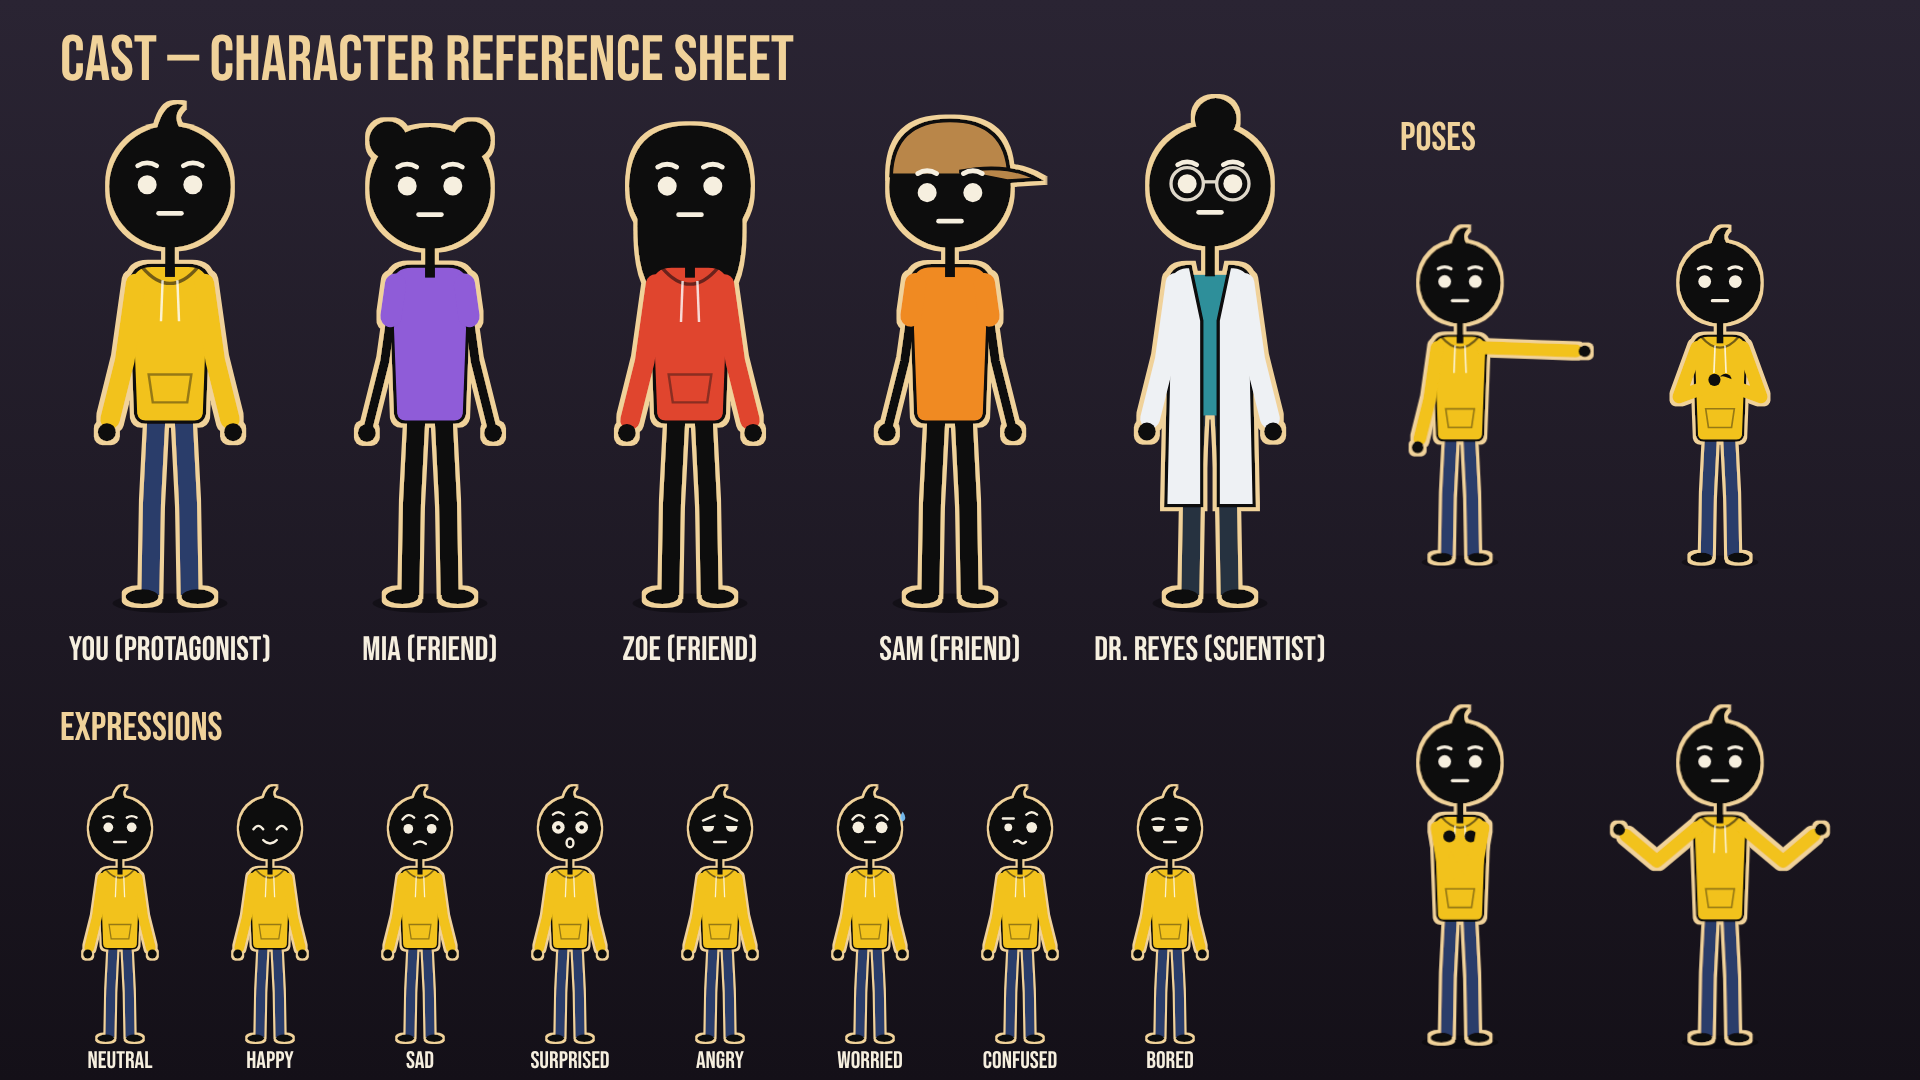
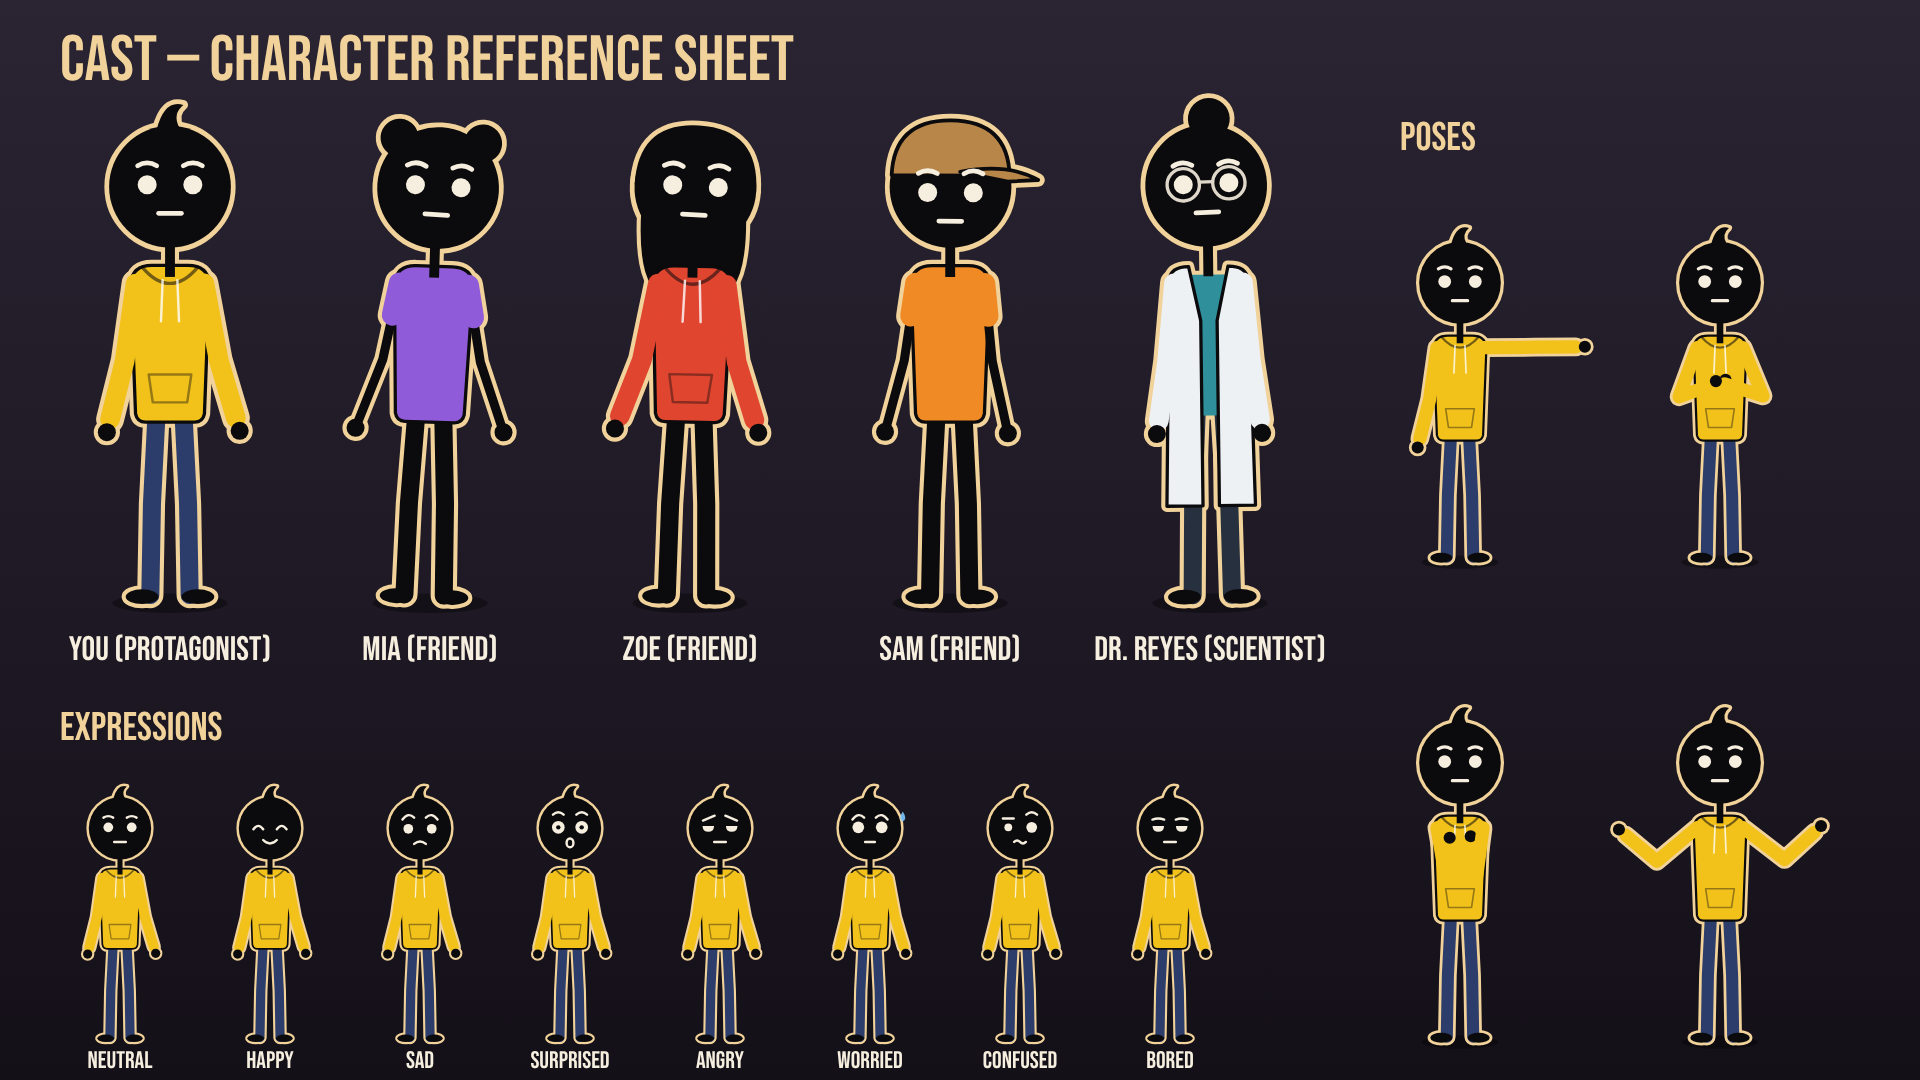
Replace SVG-filter character outline with drawn outline pass (fixes dropped frames)
Claude-Session: https://claude.ai/code/session_01XX8TN6DtUHRC8gYsVLUuvR

diff --git a/what-if-aging/src/stick/Stick.tsx b/what-if-aging/src/stick/Stick.tsx
@@ -299,93 +299,88 @@ export const Stick: React.FC<StickProps> = ({
   const sleeveLen = o.kind === "tee" ? 0.42 : 1;
   const torsoBottom = o.kind === "coat" ? hipY + 120 : hipY + 18;
 
-  return (
-    <g transform={`translate(${x + tr} ${y}) scale(${s * (1 - sq * 0.6)} ${s * (1 + sq)})`}>
-      {shadow && <ellipse cx={0} cy={4} rx={70} ry={12} fill="#000" opacity={0.35} />}
-      <g filter={`url(#${rim})`} transform={`rotate(${lean + hunch * 0.6 + sway} 0 ${hipY})`}>
-        {/* legs */}
-        {legs.map((l) => (
-          <g key={l.side}>
-            <path d={`M ${l.side * 16} ${hipY} L ${l.kx} ${l.ky} L ${l.fx} ${l.fy - 6}`} stroke={o.pants} strokeWidth={22} fill="none" strokeLinejoin="round" />
-            <path d={`M ${l.kx} ${l.ky} L ${l.fx} ${l.fy - 6}`} stroke={INK} strokeWidth={11} strokeLinecap="round" fill="none" opacity={o.pants === INK ? 1 : 0} />
-            <ellipse cx={l.fx + l.side * 10} cy={l.fy - 4} rx={20} ry={9} fill={INK} />
-          </g>
-        ))}
-        {/* long hair behind head */}
-        {c.hair === "long" && (
-          <path d={`M ${-62} ${headY} Q ${-70} ${headY + 90} ${-50} ${headY + 120} L 50 ${headY + 120} Q 70 ${headY + 90} 62 ${headY} Z`} fill={hairCol} />
-        )}
-        {/* torso clothing */}
-        <g>
-          {o.kind === "coat" && <path d={`M -40 ${shY + 4} L 40 ${shY + 4} L 34 ${hipY + 10} L -34 ${hipY + 10} Z`} fill={o.inner ?? "#2f8f9a"} />}
-          <path
-            d={
-              o.kind === "coat"
-                ? `M -48 ${shY + 10} Q -46 ${shY - 6} -24 ${shY - 6} L -10 ${shY + 60} L -10 ${torsoBottom} L -54 ${torsoBottom} Z M 48 ${shY + 10} Q 46 ${shY - 6} 24 ${shY - 6} L 10 ${shY + 60} L 10 ${torsoBottom} L 54 ${torsoBottom} Z`
-                : `M -48 ${shY + 14} Q -46 ${shY - 8} -22 ${shY - 8} L 22 ${shY - 8} Q 46 ${shY - 8} 48 ${shY + 14} L 42 ${torsoBottom - 10} Q 40 ${torsoBottom} 30 ${torsoBottom} L -30 ${torsoBottom} Q -40 ${torsoBottom} -42 ${torsoBottom - 10} Z`
-            }
-            fill={o.color}
-            stroke={INK}
-            strokeWidth={4}
-          />
-          {o.kind === "hoodie" && (
-            <g>
-              <path d={`M -34 ${shY - 6} Q 0 ${shY + 34} 34 ${shY - 6}`} stroke={INK} strokeWidth={4} fill="none" opacity={0.55} />
-              <line x1={-9} y1={shY + 10} x2={-11} y2={shY + 60} stroke="#fff" strokeWidth={3} opacity={0.8} />
-              <line x1={9} y1={shY + 10} x2={11} y2={shY + 60} stroke="#fff" strokeWidth={3} opacity={0.8} />
-              <path d={`M -26 ${hipY - 40} L 26 ${hipY - 40} L 21 ${hipY - 6} L -21 ${hipY - 6} Z`} fill="none" stroke={INK} strokeWidth={3} opacity={0.4} />
-            </g>
-          )}
+  // Outline is drawn as an enlarged cream copy of the silhouette underneath (deterministic, no SVG filter).
+  const RC = rim === "rimIce" ? "#7fe6ff" : RIM;
+  const P = (ol: boolean, fill?: string, stroke?: string, sw = 0) =>
+    ol ? { fill: fill && fill !== "none" ? RC : "none", stroke: RC, strokeWidth: sw + 10 } : { fill: fill ?? "none", stroke, strokeWidth: sw };
+  const headT = `rotate(${tilt + nod} 0 ${headY + 40}) translate(${hunch * 2.2} 0) translate(0 ${headY}) scale(1.16) translate(0 ${-headY})`;
+  const geo = (ol: boolean) => (
+    <g strokeLinecap="round" strokeLinejoin="round">
+      {legs.map((l) => (
+        <g key={l.side}>
+          <path d={`M ${l.side * 16} ${hipY} L ${l.kx} ${l.ky} L ${l.fx} ${l.fy - 6}`} {...P(ol, "none", o.pants, 22)} />
+          {!ol && o.pants === INK && <path d={`M ${l.kx} ${l.ky} L ${l.fx} ${l.fy - 6}`} stroke={INK} strokeWidth={11} fill="none" />}
+          <ellipse cx={l.fx + l.side * 10} cy={l.fy - 4} rx={20} ry={9} {...P(ol, INK)} />
         </g>
-        {/* neck */}
-        <rect x={-6} y={headY + 40} width={12} height={shY - headY - 34} fill={INK} />
-        {/* arms */}
-        {arms.map((a) => {
-          const sx = a.side * 42;
-          const sy = shY + 14;
-          const midx = sx + (a.ex - sx) * sleeveLen;
-          const midy = sy + (a.ey - sy) * sleeveLen;
-          return (
-            <g key={a.side}>
-              <path d={`M ${sx} ${sy} L ${a.ex} ${a.ey} L ${a.hx} ${a.hy}`} stroke={INK} strokeWidth={11} strokeLinecap="round" strokeLinejoin="round" fill="none" />
-              {o.kind === "tee" ? (
-                <path d={`M ${sx} ${sy} L ${midx} ${midy}`} stroke={o.color} strokeWidth={26} strokeLinecap="round" fill="none" />
-              ) : (
-                <path
-                  d={`M ${sx} ${sy} L ${a.ex} ${a.ey} L ${sx + (a.hx - sx) * 1 - (a.hx - a.ex) * 0.18} ${a.hy - (a.hy - a.ey) * 0.18}`}
-                  stroke={o.color}
-                  strokeWidth={24}
-                  strokeLinecap="round"
-                  strokeLinejoin="round"
-                  fill="none"
-                />
-              )}
-              <circle cx={a.hx} cy={a.hy} r={11} fill={INK} />
-            </g>
-          );
-        })}
-        {/* head */}
-        <g transform={`rotate(${tilt + nod} 0 ${headY + 40}) translate(${hunch * 2.2} 0) translate(0 ${headY}) scale(1.16) translate(0 ${-headY})`}>
-          <circle cx={0} cy={headY} r={64} fill={INK} />
-          {c.hair === "tuft" && <path d={`M -14 ${headY - 60} Q -6 ${headY - 92} 14 ${headY - 86} Q 2 ${headY - 76} 10 ${headY - 62} Z`} fill={hairCol} />}
-          {c.hair === "buns" && (
-            <g fill={hairCol}>
-              <circle cx={-44} cy={headY - 50} r={20} />
-              <circle cx={44} cy={headY - 50} r={20} />
-            </g>
-          )}
-          {c.hair === "bun" && <circle cx={6} cy={headY - 70} r={22} fill={hairCol} />}
-          {c.hair === "long" && <path d={`M -64 ${headY} Q -64 ${headY - 66} 0 ${headY - 66} Q 64 ${headY - 66} 64 ${headY} Q 40 ${headY - 40} 0 ${headY - 44} Q -40 ${headY - 40} -64 ${headY} Z`} fill={hairCol} />}
-          {c.hair === "cap" && (
-            <g>
-              <path d={`M -62 ${headY - 12} Q -60 ${headY - 70} 0 ${headY - 70} Q 60 ${headY - 70} 62 ${headY - 12} Z`} fill={c.capColor ?? "#c98a3a"} stroke={INK} strokeWidth={4} />
-              <path d={`M 10 ${headY - 16} Q 60 ${headY - 26} 92 ${headY - 8} L 60 ${headY - 6} Z`} fill={c.capColor ?? "#c98a3a"} stroke={INK} strokeWidth={4} />
-            </g>
-          )}
+      ))}
+      {c.hair === "long" && <path d={`M ${-62} ${headY} Q ${-70} ${headY + 90} ${-50} ${headY + 120} L 50 ${headY + 120} Q 70 ${headY + 90} 62 ${headY} Z`} {...P(ol, hairCol)} />}
+      {o.kind === "coat" && <path d={`M -40 ${shY + 4} L 40 ${shY + 4} L 34 ${hipY + 10} L -34 ${hipY + 10} Z`} {...P(ol, o.inner ?? "#2f8f9a")} />}
+      <path
+        d={
+          o.kind === "coat"
+            ? `M -48 ${shY + 10} Q -46 ${shY - 6} -24 ${shY - 6} L -10 ${shY + 60} L -10 ${torsoBottom} L -54 ${torsoBottom} Z M 48 ${shY + 10} Q 46 ${shY - 6} 24 ${shY - 6} L 10 ${shY + 60} L 10 ${torsoBottom} L 54 ${torsoBottom} Z`
+            : `M -48 ${shY + 14} Q -46 ${shY - 8} -22 ${shY - 8} L 22 ${shY - 8} Q 46 ${shY - 8} 48 ${shY + 14} L 42 ${torsoBottom - 10} Q 40 ${torsoBottom} 30 ${torsoBottom} L -30 ${torsoBottom} Q -40 ${torsoBottom} -42 ${torsoBottom - 10} Z`
+        }
+        {...P(ol, o.color, INK, 4)}
+      />
+      {!ol && o.kind === "hoodie" && (
+        <g>
+          <path d={`M -34 ${shY - 6} Q 0 ${shY + 34} 34 ${shY - 6}`} stroke={INK} strokeWidth={4} fill="none" opacity={0.55} />
+          <line x1={-9} y1={shY + 10} x2={-11} y2={shY + 60} stroke="#fff" strokeWidth={3} opacity={0.8} />
+          <line x1={9} y1={shY + 10} x2={11} y2={shY + 60} stroke="#fff" strokeWidth={3} opacity={0.8} />
+          <path d={`M -26 ${hipY - 40} L 26 ${hipY - 40} L 21 ${hipY - 6} L -21 ${hipY - 6} Z`} fill="none" stroke={INK} strokeWidth={3} opacity={0.4} />
+        </g>
+      )}
+      <rect x={-6} y={headY + 40} width={12} height={shY - headY - 34} {...P(ol, INK)} />
+      {arms.map((a) => {
+        const sx = a.side * 42;
+        const sy = shY + 14;
+        const midx = sx + (a.ex - sx) * sleeveLen;
+        const midy = sy + (a.ey - sy) * sleeveLen;
+        return (
+          <g key={a.side}>
+            <path d={`M ${sx} ${sy} L ${a.ex} ${a.ey} L ${a.hx} ${a.hy}`} {...P(ol, "none", INK, 11)} />
+            {o.kind === "tee" ? (
+              <path d={`M ${sx} ${sy} L ${midx} ${midy}`} {...P(ol, "none", o.color, 26)} />
+            ) : (
+              <path d={`M ${sx} ${sy} L ${a.ex} ${a.ey} L ${a.hx - (a.hx - a.ex) * 0.18} ${a.hy - (a.hy - a.ey) * 0.18}`} {...P(ol, "none", o.color, 24)} />
+            )}
+            <circle cx={a.hx} cy={a.hy} r={11} {...P(ol, INK)} />
+          </g>
+        );
+      })}
+      <g transform={headT}>
+        <circle cx={0} cy={headY} r={64} {...P(ol, INK)} />
+        {c.hair === "tuft" && <path d={`M -14 ${headY - 60} Q -6 ${headY - 92} 14 ${headY - 86} Q 2 ${headY - 76} 10 ${headY - 62} Z`} {...P(ol, hairCol)} />}
+        {c.hair === "buns" && (
+          <g>
+            <circle cx={-44} cy={headY - 50} r={20} {...P(ol, hairCol)} />
+            <circle cx={44} cy={headY - 50} r={20} {...P(ol, hairCol)} />
+          </g>
+        )}
+        {c.hair === "bun" && <circle cx={6} cy={headY - 70} r={22} {...P(ol, hairCol)} />}
+        {c.hair === "long" && <path d={`M -64 ${headY} Q -64 ${headY - 66} 0 ${headY - 66} Q 64 ${headY - 66} 64 ${headY} Q 40 ${headY - 40} 0 ${headY - 44} Q -40 ${headY - 40} -64 ${headY} Z`} {...P(ol, hairCol)} />}
+        {c.hair === "cap" && (
+          <g>
+            <path d={`M -62 ${headY - 12} Q -60 ${headY - 70} 0 ${headY - 70} Q 60 ${headY - 70} 62 ${headY - 12} Z`} {...P(ol, c.capColor ?? "#c98a3a", INK, 4)} />
+            <path d={`M 10 ${headY - 16} Q 60 ${headY - 26} 92 ${headY - 8} L 60 ${headY - 6} Z`} {...P(ol, c.capColor ?? "#c98a3a", INK, 4)} />
+          </g>
+        )}
+        {!ol && (
           <g transform={`translate(0 ${headY + (c.hair === "cap" ? 8 : 0)})`}>
             <Face expr={expr} blink={blink} lx={look} ly={lookY} glasses={c.glasses} f={f} talk={talk} />
           </g>
-        </g>
+        )}
+      </g>
+    </g>
+  );
+
+  return (
+    <g transform={`translate(${x + tr} ${y}) scale(${s * (1 - sq * 0.6)} ${s * (1 + sq)})`}>
+      {shadow && <ellipse cx={0} cy={4} rx={70} ry={12} fill="#000" opacity={0.35} />}
+      <g transform={`rotate(${lean + hunch * 0.6 + sway} 0 ${hipY})`}>
+        {geo(true)}
+        {geo(false)}
       </g>
       {sweat && (
         <path
